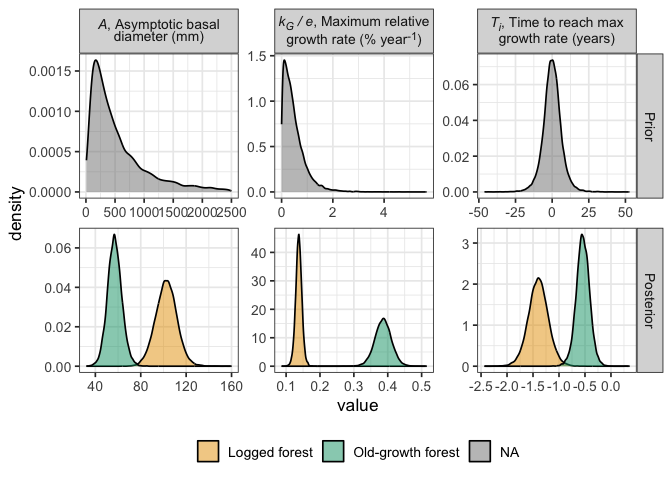
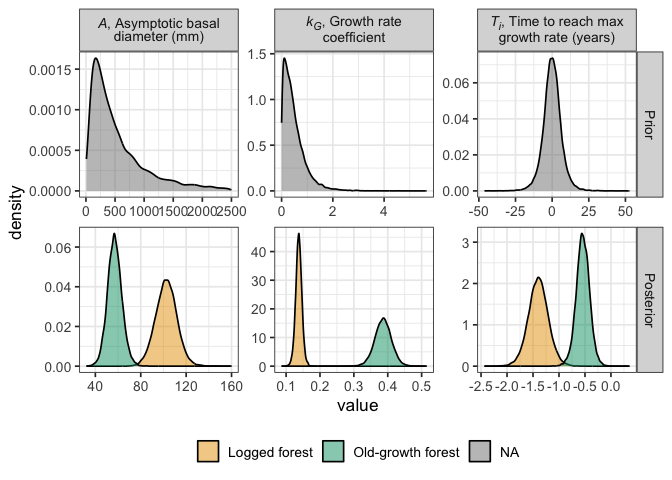
Fix panel label

diff --git a/code/notebooks/2025-06-13_growth-prior-vs-posterior.md b/code/notebooks/2025-06-13_growth-prior-vs-posterior.md
@@ -1,6 +1,6 @@
 # Plotting priors vs posteriors for our growth model
 eleanorjackson
-2025-10-17
+2025-10-28
 
 ``` r
 library("tidyverse")
@@ -51,7 +51,7 @@ prior_post %>%
   mutate(dist = factor(dist, levels = c("Prior", "Posterior"))) %>%
   mutate(name = case_when(
     parameter == "A" ~ "<i>A</i>, Asymptotic basal<br>diameter (mm)",
-    parameter == "k" ~ "<i>k<sub>G</sub> / e</i>, Maximum relative<br>growth rate (% year<sup>-1</sup>)",
+    parameter == "k" ~ "<i>k<sub>G</sub></i>, Growth rate<br>coefficient",
     parameter == "delay" ~ "<i>T<sub>i</sub></i>, Time to reach max<br>growth rate (years)"
   )) %>%
   ggplot(aes(x = value, fill = forest_type)) +
